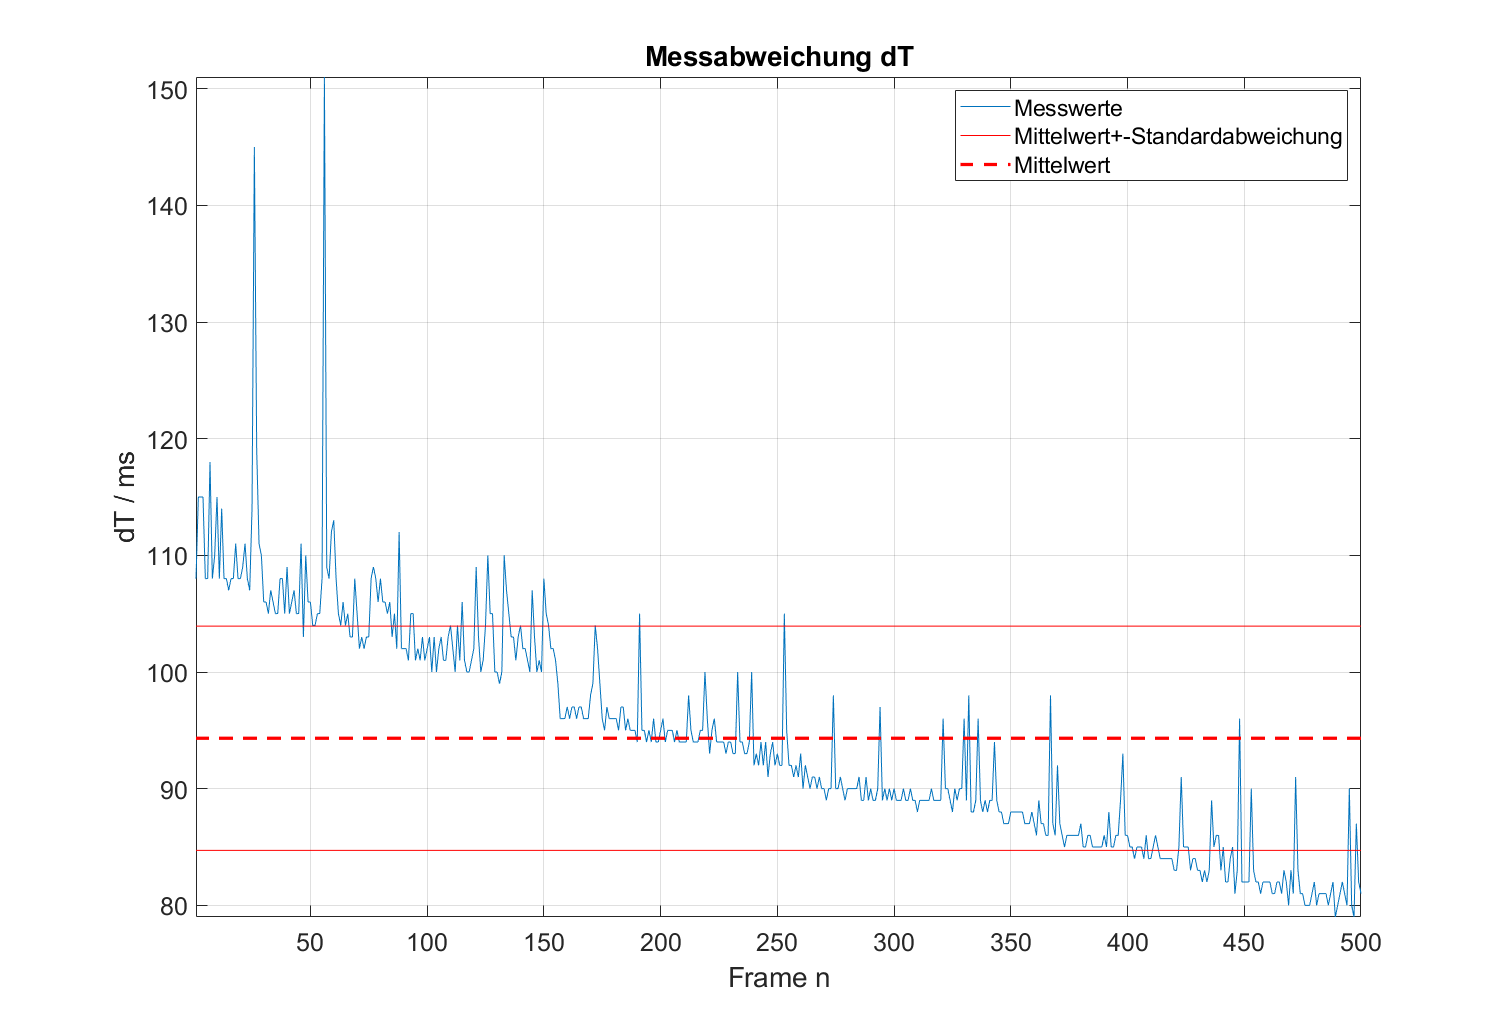
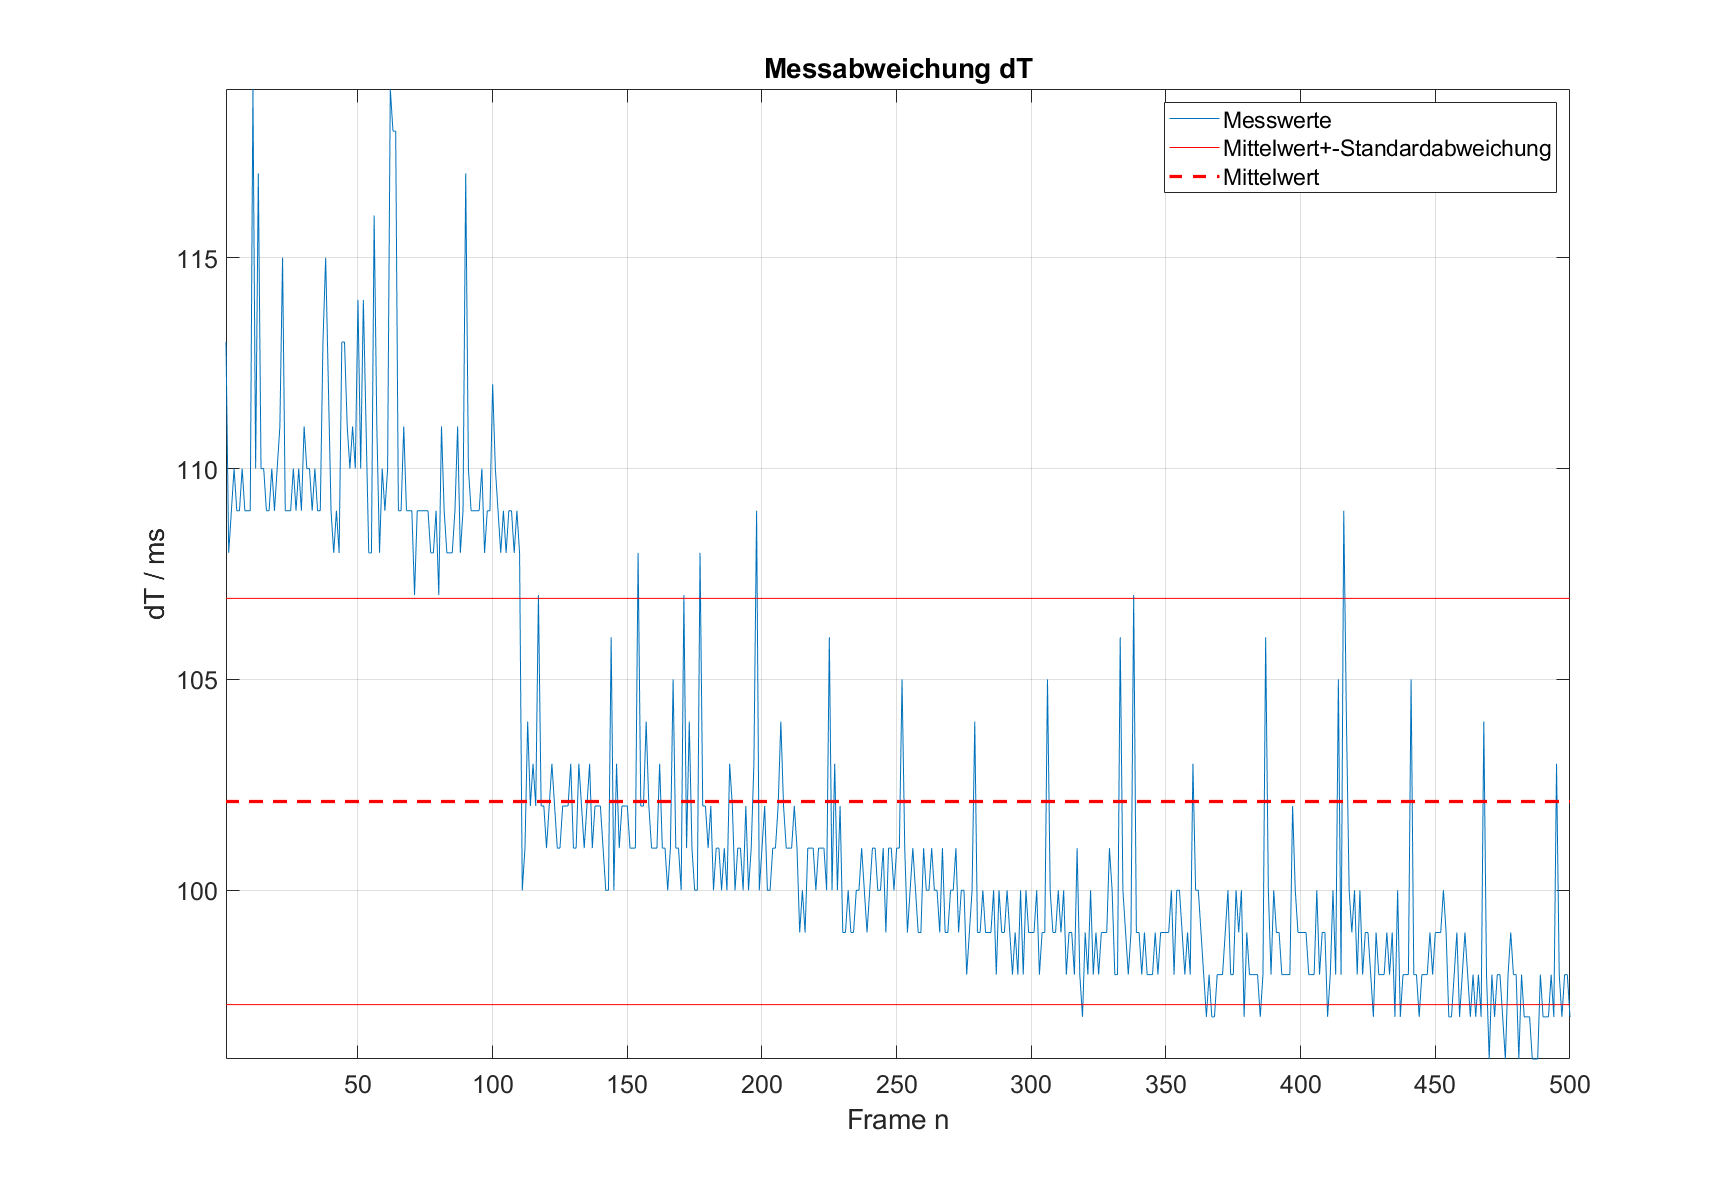
Added measurements for cpp-project

diff --git a/praktikum/fruendt/index.md b/praktikum/fruendt/index.md
@@ -129,18 +129,24 @@ Als ECS-Framework wird für das PM-Dungeon Ashley[5] eingesetzt, da es eine gute
 Der Source des Miniprojektes in C++ mit OOP-Ansatz kann im entsprechenden GitHub-Repository eingesehen werden https://github.com/mfruendt/SGSE2022_Cpp_OOP
 
 Aus dem Miniprojekt werden die folgenden Komponenten generiert.
-- Position: Position des Entities
-- Velocity: Geschwindigkeit des Entities
-- Health: Gesundheit des Entities
-- Collision: Schaden, den das Entity durch eine Kollision erleidet
-- Sprite: Sprite des Entities
+
+| Komponente | Daten|
+|:--:|:--:|
+|Position|Position des Entities|
+|Velocity|Geschwindigkeit des Entities|
+|Health|Gesundheit des Entities|
+|Collision|Schaden, den das Entity durch eine Kollision erleidet|
+|Sprite|Sprite des Entities|
 
 Für diese Komponenten werden die unten stehenden Systeme zur Bearbeitung derer Daten erstellt.
-- MovementSystem: Bewegt die Entities entsprechend ihrer Geschwindigkeit
-- KiSystem: Verändert zufällig die Geschwindigkeit des Entities
-- HealthSystem: Entfernt Entities, welche sämtliche Gesundheit verloren haben
-- DamageSystem: Zieht Entities Gesundheit ab, welche kollidiert sind
-- CollisionSystem: Prüft ob zwei Entities kollidieren
+
+| System                | Funktion|
+|:--:|:--:|
+|MovementSystem|Bewegt die Entities entsprechend ihrer Geschwindigkeit|
+|KiSystem|Verändert zufällig die Geschwindigkeit des Entities|
+|HealthSystem|Entfernt Entities, welche sämtliche Gesundheit verloren haben|
+|DamageSystem|Zieht Entities Gesundheit ab, welche kollidiert sind|
+|CollisionSystem|Prüft ob zwei Entities kollidieren|
 
 ### Implementierung des ECS-Ansatzes im C++ Projekt
 
@@ -243,17 +249,17 @@ Nach Vollendigung der ECS-Implementierungen, sollen diese mit dem ursprüngliche
 Für das PM-Dungeon werden jeweils drei Versuche mit 100, 500 und 1000 Monstern im Dungeon durchgeführt. Folgende Messreihen wurden dabei aufgenommen.
 
 |![](assets/measurements/Java_OOP_100.png)|
-| *Abbildung 3: Messreihe für den Versuch mit 100 Monstern im Java-Projekt mit OOP-Ansatz* |
+| *Abbildung 4: Messreihe für den Versuch mit 100 Monstern im Java-Projekt mit OOP-Ansatz* |
 |![](assets/measurements/Java_OOP_500.png)|
-| *Abbildung 4: Messreihe für den Versuch mit 500 Monstern im Java-Projekt mit OOP-Ansatz* |
+| *Abbildung 5: Messreihe für den Versuch mit 500 Monstern im Java-Projekt mit OOP-Ansatz* |
 |![](assets/measurements/Java_OOP_1000.png)|
-| *Abbildung 5: Messreihe für den Versuch mit 1000 Monstern im Java-Projekt mit OOP-Ansatz* |
+| *Abbildung 6: Messreihe für den Versuch mit 1000 Monstern im Java-Projekt mit OOP-Ansatz* |
 |![](assets/measurements/Java_ECS_100.png)|
-| *Abbildung 6: Messreihe für den Versuch mit 100 Monstern im Java-Projekt mit ECS-Ansatz* |
+| *Abbildung 7: Messreihe für den Versuch mit 100 Monstern im Java-Projekt mit ECS-Ansatz* |
 |![](assets/measurements/Java_ECS_500.png)| 
-| *Abbildung 7: Messreihe für den Versuch mit 500 Monstern im Java-Projekt mit ECS-Ansatz* |
+| *Abbildung 8: Messreihe für den Versuch mit 500 Monstern im Java-Projekt mit ECS-Ansatz* |
 |![](assets/measurements/Java_ECS_1000.png)| 
-| *Abbildung 8: Messreihe für den Versuch mit 1000 Monstern im Java-Projekt mit ECS-Ansatz* |
+| *Abbildung 9: Messreihe für den Versuch mit 1000 Monstern im Java-Projekt mit ECS-Ansatz* |
 
 Aus den Messreihen wird der Mittelwert, Median und die Standardabweichung bestimmt.
 
@@ -266,39 +272,37 @@ Aus den Messreihen wird der Mittelwert, Median und die Standardabweichung bestim
 | ECS 500 Monster | 1574 | 2089 | 1457 |
 | ECS 1000 Monster | 1769 | 2346 | 1616 |
 
-Aus dem Versuch wird ermittelt, dass der reine ECS-Ansatz wenig bis gar keinen Leistungsvorsprung gegenüber dem OOP-Ansatz bietet.
-
-TODO: Ausführen
+Aus dem Versuch wird ermittelt, dass der reine ECS-Ansatz wenig bis gar keinen Leistungsvorsprung gegenüber dem OOP-Ansatz bietet. Der Grund hierfür wird die mangelnde Implementierung des DOD-Prinzips sein. Dadurch erfolgen Datenzugriffe weiterhin durch das Laden von Objekten, welche nicht hintereinander im Speicher angeordnet sind, also müssen eventuell viele Speicherzugriffe für die Bearbeitung aller Entities erfolgen. Durch die Implementierung des ECS-Ansatzes, könnte im nächsten Schritt jedoch einfacher vom Multithreaded-Design gebrauch gemacht werden, wodurch die Performance gesteigert werden kann.
 
 ## C++-Projekt
 
 Für das C++-Projekt werden drei Versuche mit jeweils 500, 1000 und 2000 Simulierten Charakteren erstellt. Dabei wurden folgende Messereihen aufgenommen.
 
 |![](assets/measurements/Cpp_OOP_500.png)| 
-| *Abbildung 9: Messreihe für den Versuch mit 500 Charakteren im C++-Projekt mit OOP-Ansatz* |
+| *Abbildung 10: Messreihe für den Versuch mit 500 Charakteren im C++-Projekt mit OOP-Ansatz* |
 |![](assets/measurements/Cpp_OOP_1000.png)|
-| *Abbildung 10: Messreihe für den Versuch mit 1000 Charakteren im C++-Projekt mit OOP-Ansatz* |
+| *Abbildung 11: Messreihe für den Versuch mit 1000 Charakteren im C++-Projekt mit OOP-Ansatz* |
 |![](assets/measurements/Cpp_OOP_2000.png)| 
-| *Abbildung 11: Messreihe für den Versuch mit 2000 Charakteren im C++-Projekt mit OOP-Ansatz* |
+| *Abbildung 12: Messreihe für den Versuch mit 2000 Charakteren im C++-Projekt mit OOP-Ansatz* |
 |![](assets/measurements/Cpp_ECS_500.png)|
-| *Abbildung 12: Messreihe für den Versuch mit 500 Charakteren im C++-Projekt mit ECS-Ansatz* |
+| *Abbildung 13: Messreihe für den Versuch mit 500 Charakteren im C++-Projekt mit ECS-Ansatz* |
 |![](assets/measurements/Cpp_ECS_1000.png)|
-| *Abbildung 13: Messreihe für den Versuch mit 1000 Charakteren im C++-Projekt mit ECS-Ansatz* |
+| *Abbildung 14: Messreihe für den Versuch mit 1000 Charakteren im C++-Projekt mit ECS-Ansatz* |
 |![](assets/measurements/Cpp_ECS_2000.png)|
-| *Abbildung 14: Messreihe für den Versuch mit 2000 Charakteren im C++-Projekt mit ECS-Ansatz* |
+| *Abbildung 15: Messreihe für den Versuch mit 2000 Charakteren im C++-Projekt mit ECS-Ansatz* |
 
 Aus den Messreihen wird der Mittelwert, Median und die Standardabweichung bestimmt.
 
 | Versuch | Median / µs | Mittelwert / µs | Standardabweichung / µs |
 |:--:|:--:|:--:|:--:|
-| OOP 500 Charaktere | 24 | 26 | 4.5 |
-| OOP 1000 Charaktere | 89 | 92.6 | 7.5 |
-| OOP 2000 Charaktere | 345 | 348.3 | 10.7 |
-| ECS 500 Charaktere | 28 | 28.4 | 3.3 |
-| ECS 1000 Charaktere | 93 | 94.3 | 9.6 |
-| ECS 2000 Charaktere | 367 | 366.8 | 36.3 |
+| OOP 500 Charaktere | 25 | 25.5 | 1.7 |
+| OOP 1000 Charaktere | 89 | 89.9 | 1.9 |
+| OOP 2000 Charaktere | 342 | 342.7 | 3.2 |
+| ECS 500 Charaktere | 30 | 30.2 | 2.4 |
+| ECS 1000 Charaktere | 100 | 102.1 | 4.8 |
+| ECS 2000 Charaktere | 396 | 394.8 | 11 |
 
-TODO: Ausführen
+Die Versuche zeigen auf, dass der ECS-Ansatz der Performance nicht hilft. Da es sich bei dem Testprojekt um ein Miniprojekt handelt, schadet der dadurch erzeugte Overhead der Performance sogar. Auffälig ist, dass der ECS-Ansatz zudem über die Zeit an Leistung dazu gewinnt, je mehr Charaktere im Spiel sind. Der Grund dafür wird sein, dass ab einem bestimmten Punkt die Rechenlast der Charaktere größeren Einfluss hat, als der Overhead. Der gemeinte Overhead ist die Kapselung von Daten innerhalb der Entities, welcher im OOP-Ansatz nicht gegeben ist, stattdessen liegen die Daten ungekapselt in den Objekten. Wenn Charaktere dann aus dem Spiel entfernt werden, steigt die Performance langsam an. Auf den OOP-Ansatz trifft das jedoch nicht zu, da dieser nicht mit Iteratoren arbeitet, um die Charaktere zu berechnen.
 
 ## Anwenden des Data-Oriented-Designs
 
@@ -307,7 +311,7 @@ Das DOD verfolgt dadurch in der Umsetzung oft das Ziel, Daten zu kapseln und so 
 
 In Java kann das DOD auf diese Weise nicht eingesetzt werden, da man keine Kontrolle darüber hat, ob die zusammenhängenden Daten tatsächlich nebeneinander im Speicher liegen. Jedoch ist der Grundgedanke der Kapselung und separaten Transformation der Daten dadurch erfüllt, dass das ECS eingesetzt worden ist. Aus diesem Grund wird das DOD konkret in dem C++ Beispiel angewendet und getestet.
 
-Um den DOD-Ansatz im erstellten C++-Projekt anzuwenden, wird das Projekt, welches den ECS-Ansatz umsetzt so umgebaut, dass die Komponenten nicht mehr in jedem Entity separat gespeichert werden. Stattdessen wird es ein Array geben, welches alle Komponenten desselben Typs speichert. Die Version des C++ Miniprojektes, welches DOD implementiert kann im GitHub-Repository eingesehen werden https://github.com/mfruendt/SGSE2022_Cpp_DOD
+Um den DOD-Ansatz im erstellten C++-Projekt anzuwenden, wird das Projekt, welches den ECS-Ansatz umsetzt so umgebaut, dass die Komponenten nicht mehr in jedem Entity separat gespeichert werden. Stattdessen wird es ein Array geben, welches alle Komponenten desselben Typs speichert. Weiter wird die Stelle ermittelt, welche den größten Einfluss auf die Laufzeit hat. Im Falle dieses Projektes handelt es sich dabei um das `CollisionSystem`, welches über alle Charaktere iteriert, um Zusammenstöße zu ermitteln. Im ECS-Ansatz ist dafür ein Iterator verwendet worden, dieser wird ersetzt durch einen klassischen Array-Zugriff, wodurch Zugriffszeit eingesparrt wird. Die Version des C++ Miniprojektes, welches DOD implementiert kann im GitHub-Repository eingesehen werden https://github.com/mfruendt/SGSE2022_Cpp_DOD
 
 ## Vor- und Nachteile des Data-Oriented-Designs
 
@@ -322,10 +326,28 @@ Vorteile:
 Nachteile:
 - Erfordert umdenken gegenüber klassischem OOP-Ansatz
 - Es kann schwer sein DOD mit bestehenden Systemen zu koppeln, welche nicht DOD befolgen
+- Optimierungen an der Datentranformation zu finden, benötigt zusätzliche Entwicklungszeit
 
 ## Performancevergleich zwischen ECS- und DOD-Ansatz
 
-TBD
+Die drei Versuche mit 500, 1000 und 2000 Charakteren, welche im C++-Projekt für den OOP- und ECS-Ansatz umgesetzt wurden, werden für den DOD-Ansatz aufgenommen. Folgende Messdaten ergeben sich.
+
+|![](assets/measurements/Cpp_DOD_500.png)|
+| *Abbildung 16: Messreihe für den Versuch mit 500 Charakteren im C++-Projekt mit DOD-Ansatz* |
+|![](assets/measurements/Cpp_DOD_1000.png)|
+| *Abbildung 17: Messreihe für den Versuch mit 1000 Charakteren im C++-Projekt mit DOD-Ansatz* |
+|![](assets/measurements/Cpp_DOD_2000.png)|
+| *Abbildung 18: Messreihe für den Versuch mit 2000 Charakteren im C++-Projekt mit DOD-Ansatz* |
+
+Wieder werden Median, Mittelwert und Standardabweichung aus den Messdaten ermittelt.
+
+| Versuch | Median / µs | Mittelwert / µs | Standardabweichung / µs |
+|:--:|:--:|:--:|:--:|
+| DOD 500 Charaktere | 16 | 16.2 | 0.7 |
+| DOD 1000 Charaktere | 16 | 16.3 | 1.2 |
+| DOD 2000 Charaktere | 45 | 44.7 | 1.4 |
+
+Durch die Implementierung des DOD-Ansatzes im ECS-Projekt, wird dem Overhead entgegen gewirkt. Das Projekt ist jetzt um Längen schneller als das OOP-Projekt und wird nur noch von der Grafikbibliothek ausgebremst.
 
 ## Zusammenfassung
 
